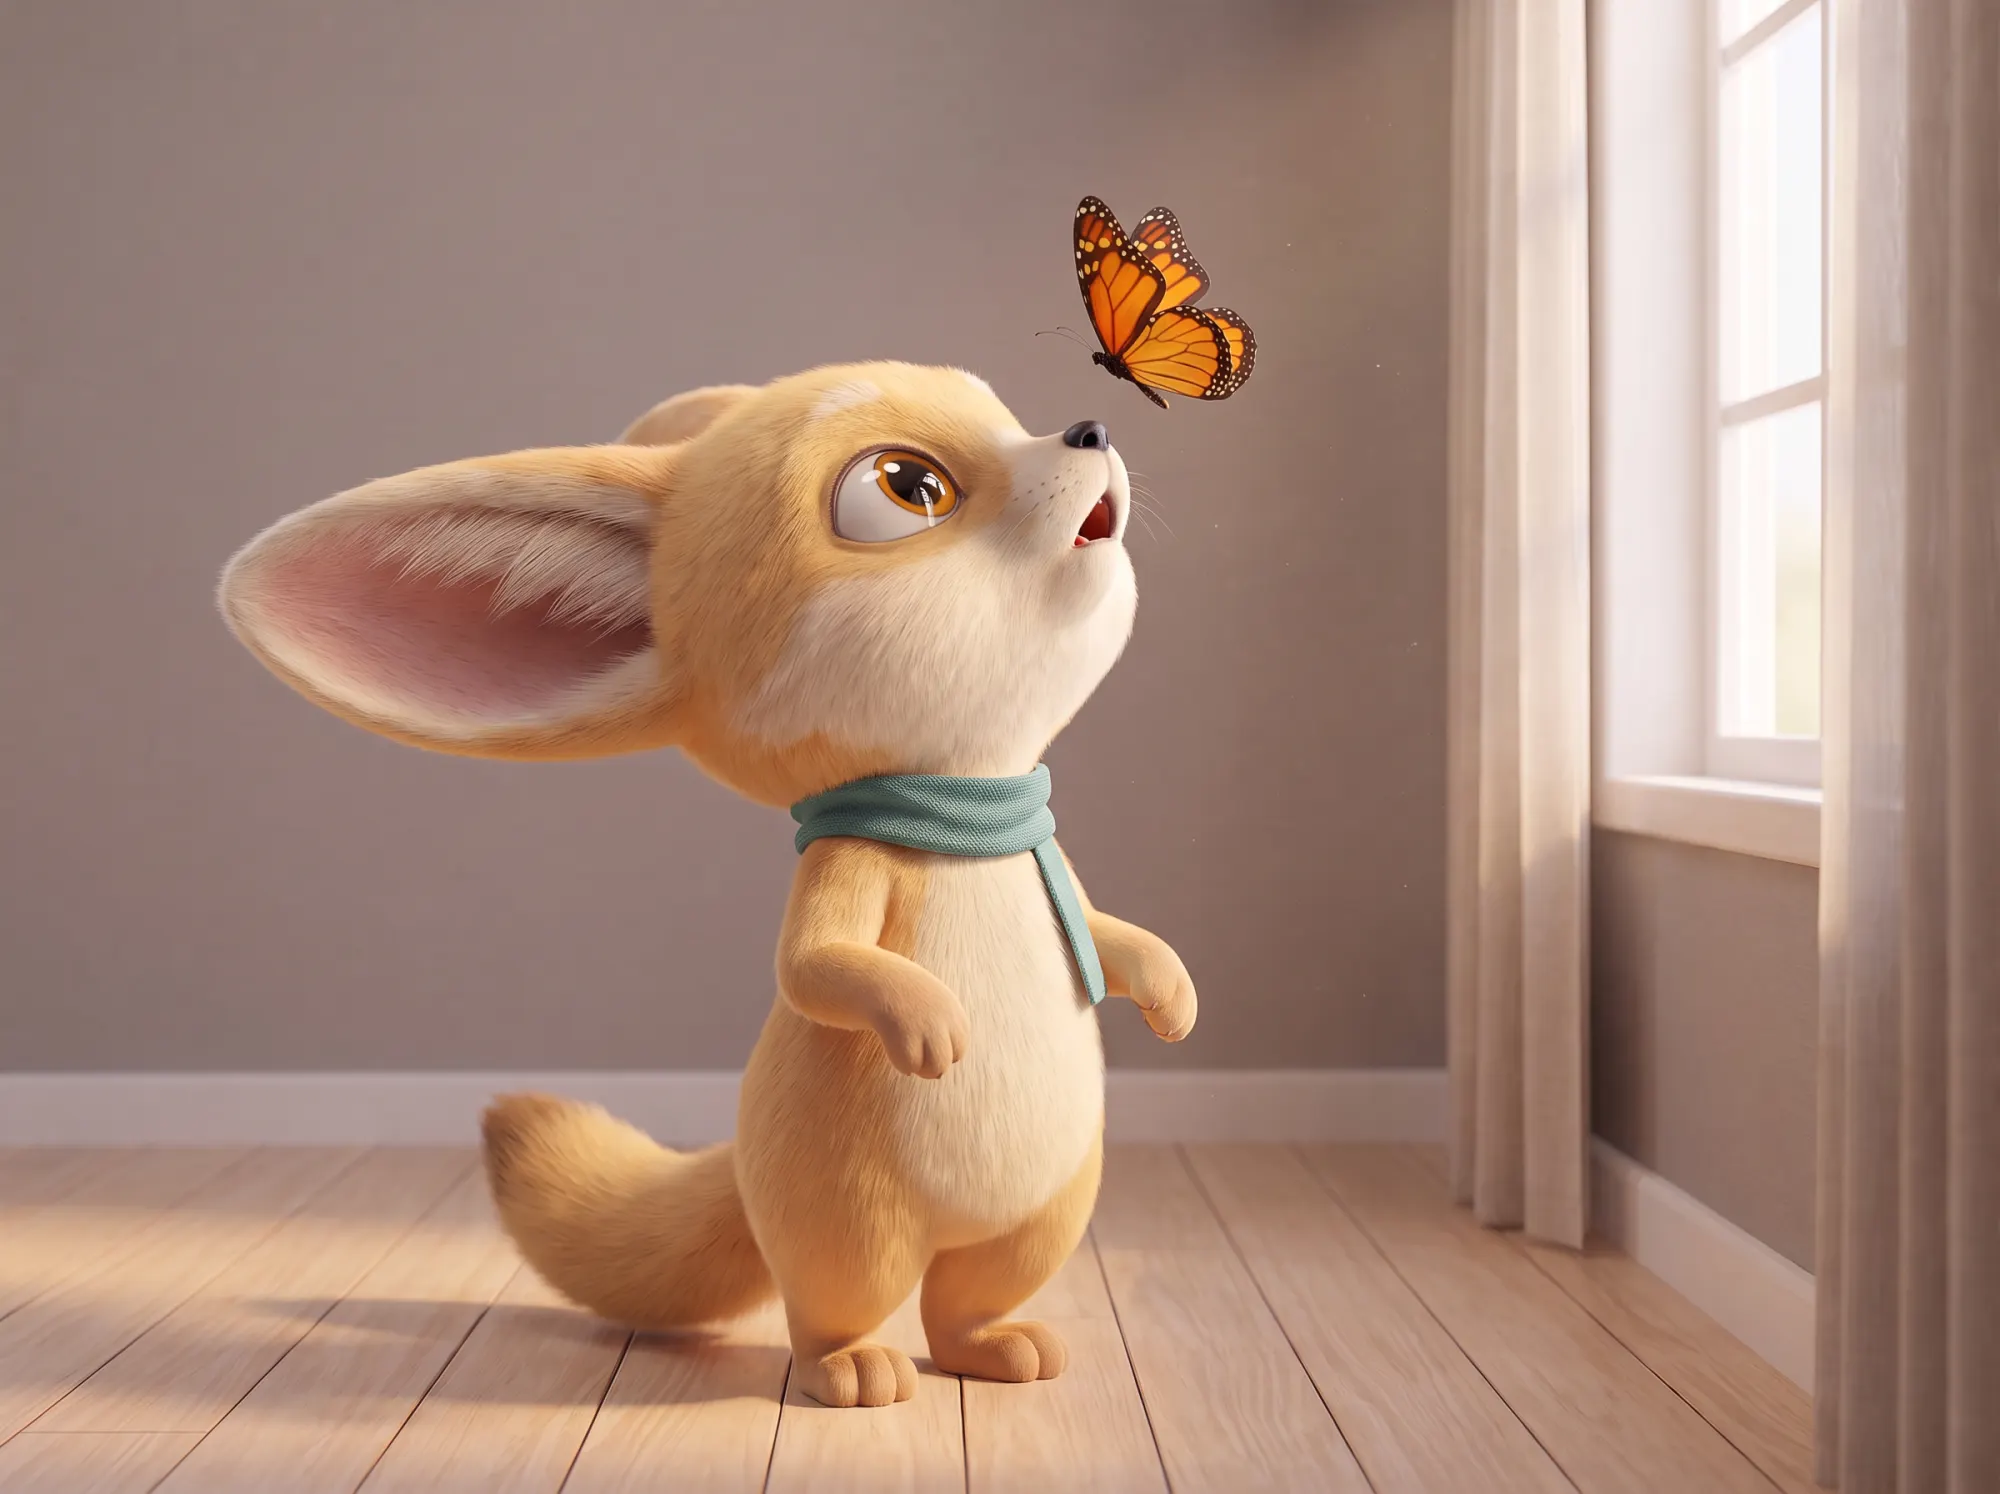
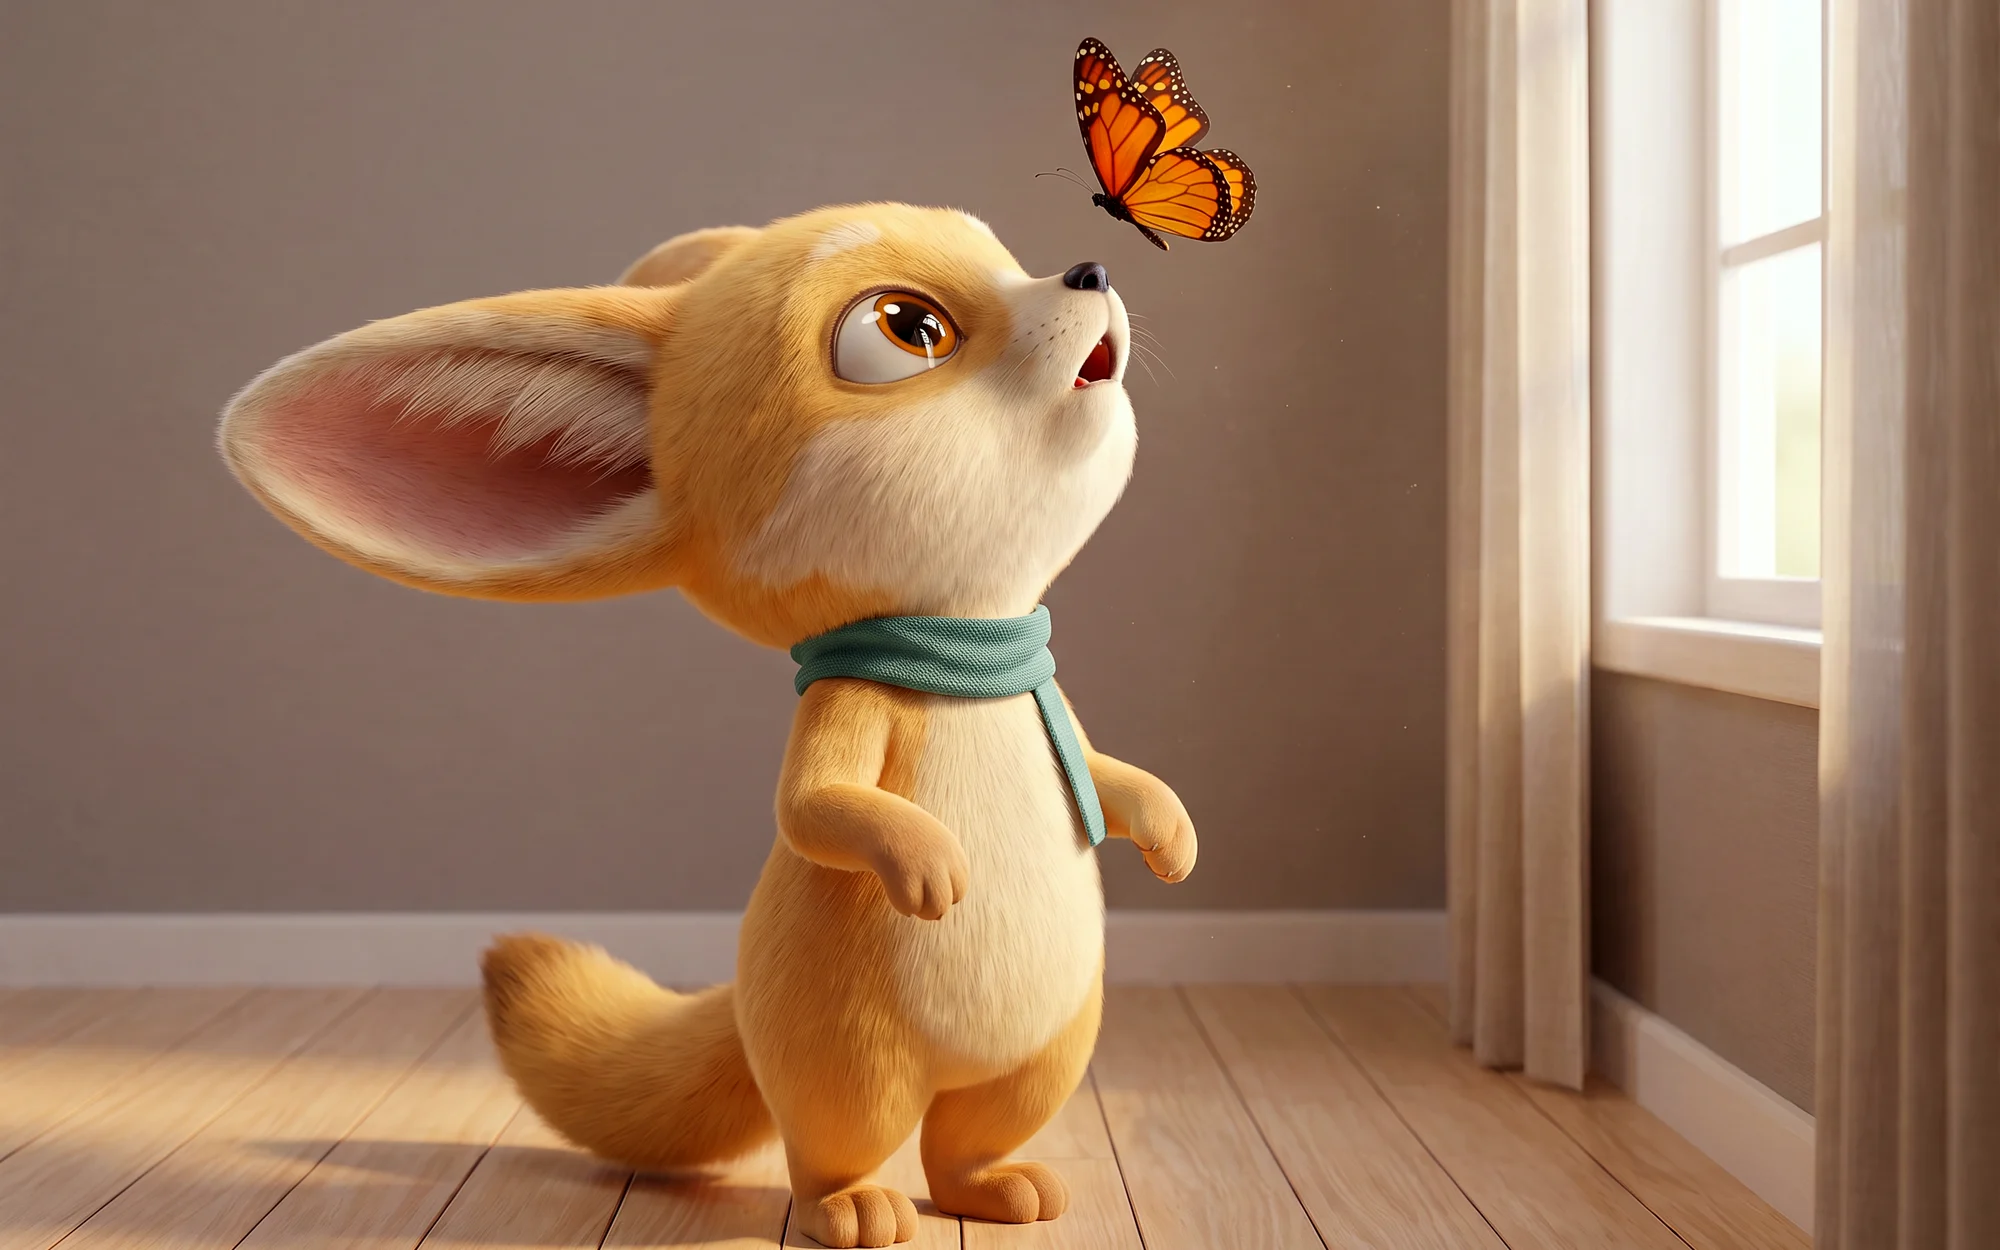
fix(writing): Biscuit card keeps the paws in frame, app colour grade

diff --git a/.claude/skills/blog-post/SKILL.md b/.claude/skills/blog-post/SKILL.md
@@ -101,6 +101,8 @@ Do not deploy if either step was skipped.
 
 Every correction Danil sends becomes a rule here (and in Claude's memory). Newest first.
 
+- 2026-11-03 — Card thumbs are shown 16:10 (`object-fit: cover`), so crop the thumb to 16:10 yourself and keep the whole subject in frame (Biscuit's paws were cut off). Biscuit art uses the app's own colour grade (`PACK_GRADE` in `~/prj/tamagochi-exp/tools/make-event-stills.sh`, saturation 1.20) on the raw `.work/*/nano-banana-pro.png`, so it looks as rich as in the app.
+
 - 2026-11-03 — Qure case cover is live: the approved swirl animation (`coverLive: qure-swirl`, `src/components/SwirlCover.tsx`, one turn per π/0.5 ≈ 6.3 s), static `cover-swirl.webp` as fallback, reduced-motion frame and list thumbnail (`thumb`). LiquidGradient is back to the untouched Sideform shader.
 - 2026-11-03 — Qure cover approved: a static dithered Swirl (after Paper Shaders' Dithering swirl, 8×8 Bayer, ground #180010) with the Qure mark in the centre and dots in a blue→cyan→pale→amber→orange diagonal gradient (`cover-swirl.webp`). The animated version goes to Notion for approval first.
 - 2026-11-03 — Qure cover redo: work in iterations. Start static, matched to the reference (https://pin.it/oxRCTBhem), and send each iteration to Notion (private draft) for Danil's approval before touching the site; animate only after the static look is approved.
